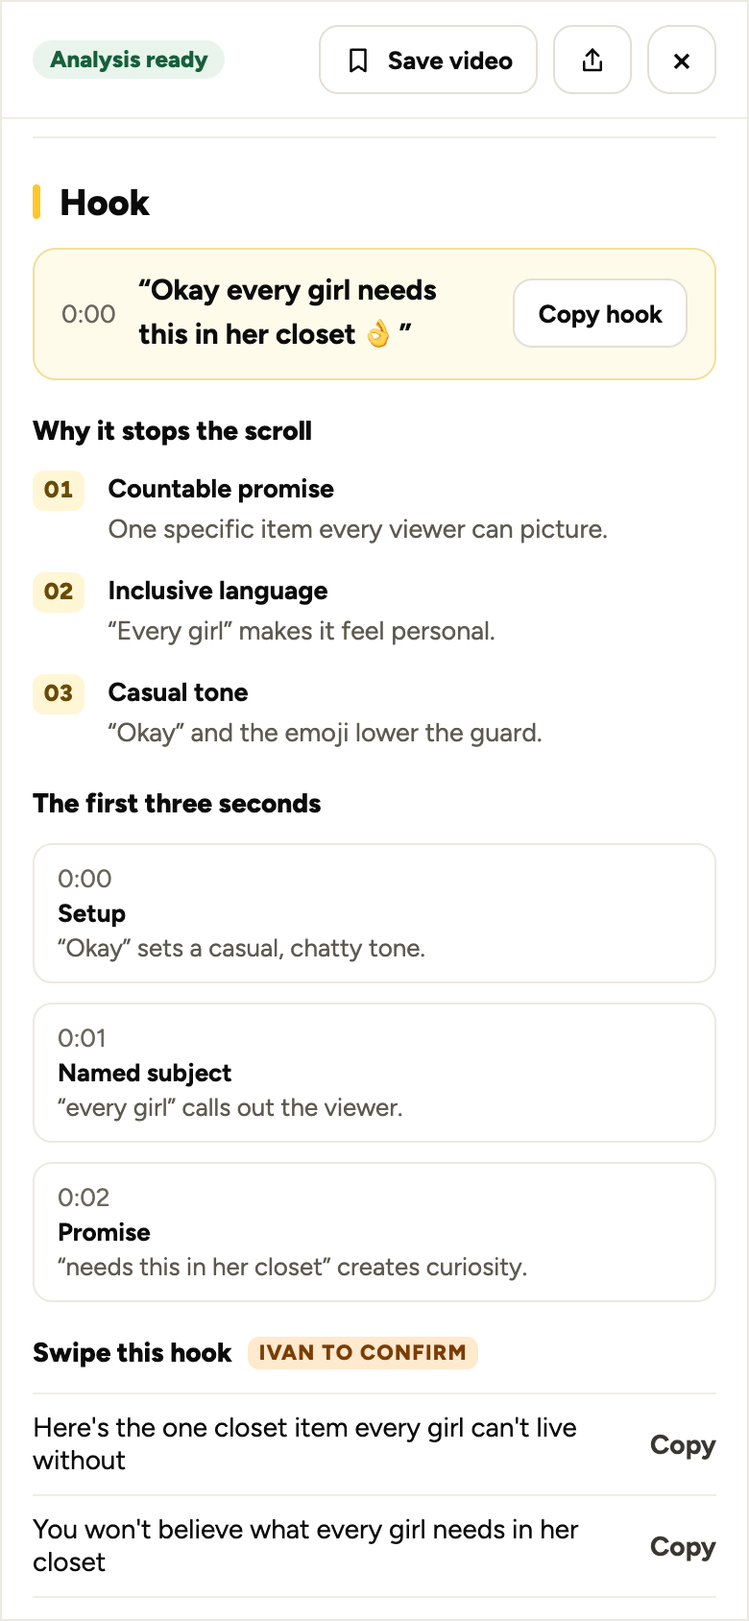
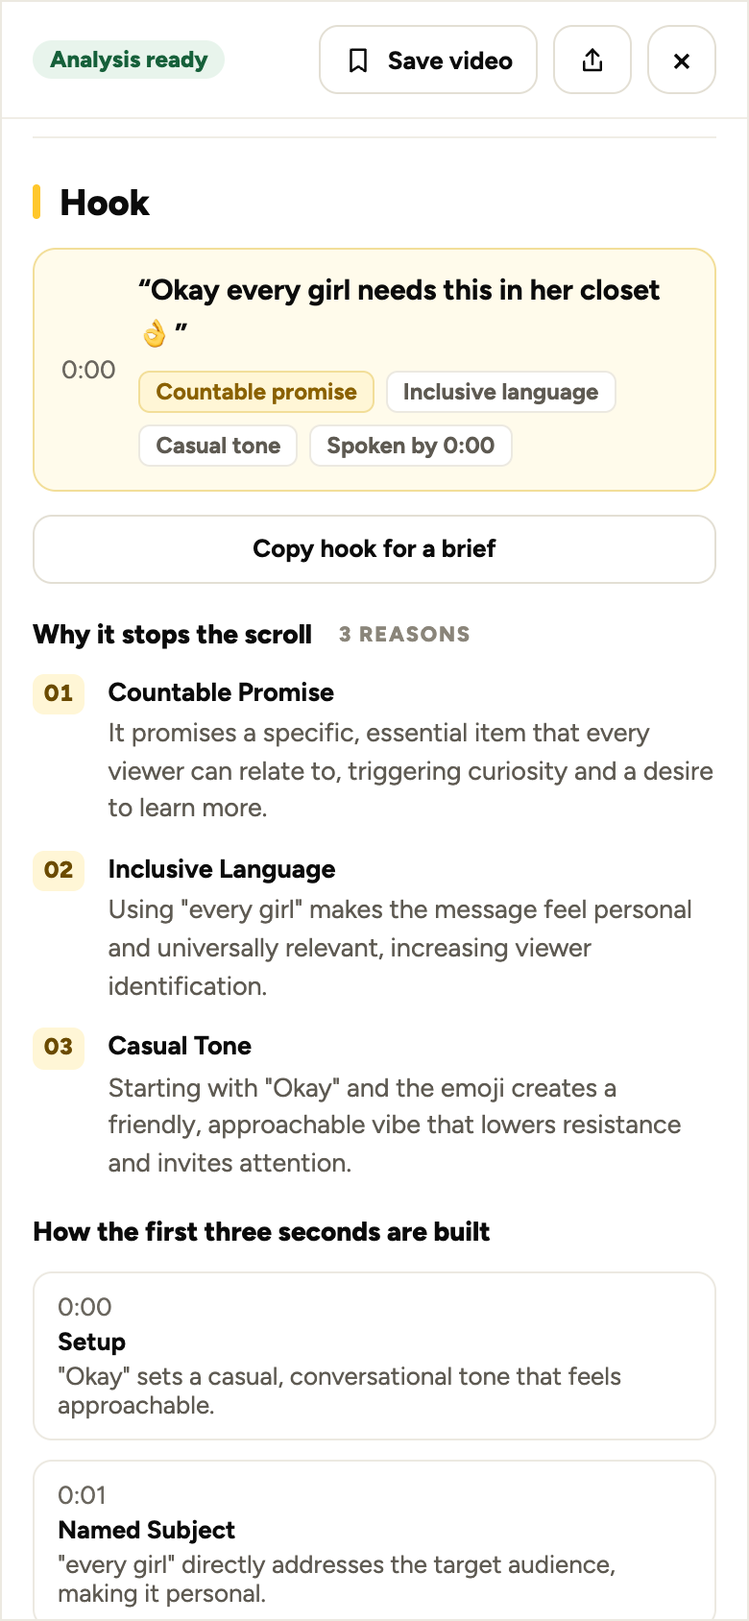
BB 3.0 handoff, item 26/28 accuracy pass: Hook word for word from the live Hook tab (tags, Copy hook for a brief, rewrite labels, footer), section counts back as on live, live straight quotes in next steps, real likes/comments/shares for cards 6-8 from the rhode skin data

Changed region(s): [[0.0308, 0.154, 0.9538, 1.0], [0.8615, 0.8626, 0.9538, 0.9242], [0.8615, 0.955, 0.9538, 0.9858]]

diff --git a/bb-3/oct21.html b/bb-3/oct21.html
@@ -377,6 +377,9 @@ a{color:inherit;text-decoration:none}i{font-style:normal}button{font-family:inhe
 .anl li>span:last-child{display:flex;flex-direction:column;gap:2px}.anl li>span:last-child>span{color:#5E5A52}
 .an-n{font-size:12px;font-weight:800;color:#6B4B00;background:#FFF6D6;border-radius:6px;padding:2px 6px;height:fit-content;font-variant-numeric:tabular-nums}
 .anl.sm li{font-size:13.5px}
+.ancnt{font-family:inherit;font-size:11px;font-weight:800;letter-spacing:.08em;text-transform:uppercase;color:#8A857A;margin-left:6px}
+.hookt{flex:1;display:flex;flex-direction:column;gap:8px}.hooktags{display:flex;flex-wrap:wrap;gap:6px}.hooktags span{font-size:12px;font-weight:700;color:#5E5A52;background:#fff;border:1px solid #ECE9E1;border-radius:6px;padding:3px 8px}.hooktags span:first-child{color:#8A6100;background:#FFF6D6;border-color:#F2DE99}
+.hookcopy{align-self:stretch;justify-content:center}.rwl{display:block;font-size:11px;font-weight:800;letter-spacing:.08em;text-transform:uppercase;color:#8A857A;margin-bottom:2px}
 .an-n.bad{color:#B42318;background:#FDECEA}.an-n.go{color:#0F7B4B;background:#E6F6EE}
 .ancream{background:#FFFBEB;border:1px solid #F2DE99;border-radius:12px;padding:16px}.ansec.ancream+.ansec,.ansec+.ansec.ancream{border-top:1px solid #F2DE99}.anfoot{font-style:italic;font-size:12.5px}
 .c2st{font-size:12px;gap:12px}
@@ -529,8 +532,8 @@ a{color:inherit;text-decoration:none}i{font-style:normal}button{font-family:inhe
  <div class="c2b">
   <div class="c2top"><span class="c2sc"><b>3.6K×</b><span class="c2sl">Breakout Score<button class="kinfo2" type="button" data-act="def" aria-label="What is a Breakout Score?">i</button></span></span></div>
   <div class="c2vf"><span><b>2.5M</b> views</span><span class="c2from">from</span><span><b>893</b> followers</span></div>
-  <div class="c2e"><b>12.4%</b> engagement <span class="sample c2smp" title="SAMPLE: engagement, likes, comments, shares, date and caption">SAMPLE</span></div>
-  <div class="anst c2st"><span><svg width="14" height="14" viewBox="0 0 24 24" fill="none" stroke="currentColor" stroke-width="2" stroke-linecap="round" stroke-linejoin="round" aria-hidden="true"><path d="M12 20s-7-4.4-7-10a4 4 0 0 1 7-2.6A4 4 0 0 1 19 10c0 5.6-7 10-7 10z"/></svg> 279K</span><span><svg width="14" height="14" viewBox="0 0 24 24" fill="none" stroke="currentColor" stroke-width="2" stroke-linecap="round" stroke-linejoin="round" aria-hidden="true"><path d="M4 5h16v11H8l-4 4z"/></svg> 3.1K</span><span><svg width="14" height="14" viewBox="0 0 24 24" fill="none" stroke="currentColor" stroke-width="2" stroke-linecap="round" stroke-linejoin="round" aria-hidden="true"><path d="M22 2L11 13"/><path d="M22 2l-7 20-4-9-9-4z"/></svg> 27.9K</span></div>
+  <div class="c2e"><b>16.6%</b> engagement <span class="sample c2smp" title="SAMPLE: date and caption">SAMPLE</span></div>
+  <div class="anst c2st"><span><svg width="14" height="14" viewBox="0 0 24 24" fill="none" stroke="currentColor" stroke-width="2" stroke-linecap="round" stroke-linejoin="round" aria-hidden="true"><path d="M12 20s-7-4.4-7-10a4 4 0 0 1 7-2.6A4 4 0 0 1 19 10c0 5.6-7 10-7 10z"/></svg> 374K</span><span><svg width="14" height="14" viewBox="0 0 24 24" fill="none" stroke="currentColor" stroke-width="2" stroke-linecap="round" stroke-linejoin="round" aria-hidden="true"><path d="M4 5h16v11H8l-4 4z"/></svg> 2.2K</span><span><svg width="14" height="14" viewBox="0 0 24 24" fill="none" stroke="currentColor" stroke-width="2" stroke-linecap="round" stroke-linejoin="round" aria-hidden="true"><path d="M22 2L11 13"/><path d="M22 2l-7 20-4-9-9-4z"/></svg> 39K</span></div>
   <div class="c2who"><span class="av sm2">L</span><b>@laurenestephanny_</b><span class="c2d">May 2</span></div>
   <p class="capt clamp">ok rhode actually did it this time #rhode #lipcombo</p>
   <div class="acts"><button class="btn y grow sm" data-act="analyze"><svg width="15" height="15" viewBox="0 0 24 24" fill="none" stroke="currentColor" stroke-width="2" stroke-linecap="round" stroke-linejoin="round" aria-hidden="true"><path d="M12 3l1.8 5.2L19 10l-5.2 1.8L12 17l-1.8-5.2L5 10l5.2-1.8z"/></svg> Analyze video</button><button class="ib round sm" data-act="save" aria-label="Save video"><svg width="15" height="15" viewBox="0 0 24 24" fill="none" stroke="currentColor" stroke-width="2" stroke-linecap="round" stroke-linejoin="round" aria-hidden="true"><path d="M6 3h12v18l-6-4-6 4z"/></svg></button></div>
@@ -539,8 +542,8 @@ a{color:inherit;text-decoration:none}i{font-style:normal}button{font-family:inhe
  <div class="c2b">
   <div class="c2top"><span class="c2sc"><b>1.9K×</b><span class="c2sl">Breakout Score<button class="kinfo2" type="button" data-act="def" aria-label="What is a Breakout Score?">i</button></span></span></div>
   <div class="c2vf"><span><b>1.7M</b> views</span><span class="c2from">from</span><span><b>1.2K</b> followers</span></div>
-  <div class="c2e"><b>10.9%</b> engagement <span class="sample c2smp" title="SAMPLE: engagement, likes, comments, shares, date and caption">SAMPLE</span></div>
-  <div class="anst c2st"><span><svg width="14" height="14" viewBox="0 0 24 24" fill="none" stroke="currentColor" stroke-width="2" stroke-linecap="round" stroke-linejoin="round" aria-hidden="true"><path d="M12 20s-7-4.4-7-10a4 4 0 0 1 7-2.6A4 4 0 0 1 19 10c0 5.6-7 10-7 10z"/></svg> 166.8K</span><span><svg width="14" height="14" viewBox="0 0 24 24" fill="none" stroke="currentColor" stroke-width="2" stroke-linecap="round" stroke-linejoin="round" aria-hidden="true"><path d="M4 5h16v11H8l-4 4z"/></svg> 1.9K</span><span><svg width="14" height="14" viewBox="0 0 24 24" fill="none" stroke="currentColor" stroke-width="2" stroke-linecap="round" stroke-linejoin="round" aria-hidden="true"><path d="M22 2L11 13"/><path d="M22 2l-7 20-4-9-9-4z"/></svg> 16.7K</span></div>
+  <div class="c2e"><b>12.3%</b> engagement <span class="sample c2smp" title="SAMPLE: date and caption">SAMPLE</span></div>
+  <div class="anst c2st"><span><svg width="14" height="14" viewBox="0 0 24 24" fill="none" stroke="currentColor" stroke-width="2" stroke-linecap="round" stroke-linejoin="round" aria-hidden="true"><path d="M12 20s-7-4.4-7-10a4 4 0 0 1 7-2.6A4 4 0 0 1 19 10c0 5.6-7 10-7 10z"/></svg> 206K</span><span><svg width="14" height="14" viewBox="0 0 24 24" fill="none" stroke="currentColor" stroke-width="2" stroke-linecap="round" stroke-linejoin="round" aria-hidden="true"><path d="M4 5h16v11H8l-4 4z"/></svg> 676</span><span><svg width="14" height="14" viewBox="0 0 24 24" fill="none" stroke="currentColor" stroke-width="2" stroke-linecap="round" stroke-linejoin="round" aria-hidden="true"><path d="M22 2L11 13"/><path d="M22 2l-7 20-4-9-9-4z"/></svg> 2.4K</span></div>
   <div class="c2who"><span class="av sm2">B</span><b>@bricourtneyy</b><span class="c2d">Mar 18</span></div>
   <p class="capt clamp">peptide lip tint in every shade, which one is yours #rhode</p>
   <div class="acts"><button class="btn y grow sm" data-act="analyze"><svg width="15" height="15" viewBox="0 0 24 24" fill="none" stroke="currentColor" stroke-width="2" stroke-linecap="round" stroke-linejoin="round" aria-hidden="true"><path d="M12 3l1.8 5.2L19 10l-5.2 1.8L12 17l-1.8-5.2L5 10l5.2-1.8z"/></svg> Analyze video</button><button class="ib round sm" data-act="save" aria-label="Save video"><svg width="15" height="15" viewBox="0 0 24 24" fill="none" stroke="currentColor" stroke-width="2" stroke-linecap="round" stroke-linejoin="round" aria-hidden="true"><path d="M6 3h12v18l-6-4-6 4z"/></svg></button></div>
@@ -549,8 +552,8 @@ a{color:inherit;text-decoration:none}i{font-style:normal}button{font-family:inhe
  <div class="c2b">
   <div class="c2top"><span class="c2sc"><b>1.8K×</b><span class="c2sl">Breakout Score<button class="kinfo2" type="button" data-act="def" aria-label="What is a Breakout Score?">i</button></span></span></div>
   <div class="c2vf"><span><b>3.5M</b> views</span><span class="c2from">from</span><span><b>3.1K</b> followers</span></div>
-  <div class="c2e"><b>9.2%</b> engagement <span class="sample c2smp" title="SAMPLE: engagement, likes, comments, shares, date and caption">SAMPLE</span></div>
-  <div class="anst c2st"><span><svg width="14" height="14" viewBox="0 0 24 24" fill="none" stroke="currentColor" stroke-width="2" stroke-linecap="round" stroke-linejoin="round" aria-hidden="true"><path d="M12 20s-7-4.4-7-10a4 4 0 0 1 7-2.6A4 4 0 0 1 19 10c0 5.6-7 10-7 10z"/></svg> 289.8K</span><span><svg width="14" height="14" viewBox="0 0 24 24" fill="none" stroke="currentColor" stroke-width="2" stroke-linecap="round" stroke-linejoin="round" aria-hidden="true"><path d="M4 5h16v11H8l-4 4z"/></svg> 3.2K</span><span><svg width="14" height="14" viewBox="0 0 24 24" fill="none" stroke="currentColor" stroke-width="2" stroke-linecap="round" stroke-linejoin="round" aria-hidden="true"><path d="M22 2L11 13"/><path d="M22 2l-7 20-4-9-9-4z"/></svg> 29K</span></div>
+  <div class="c2e"><b>21.1%</b> engagement <span class="sample c2smp" title="SAMPLE: date and caption">SAMPLE</span></div>
+  <div class="anst c2st"><span><svg width="14" height="14" viewBox="0 0 24 24" fill="none" stroke="currentColor" stroke-width="2" stroke-linecap="round" stroke-linejoin="round" aria-hidden="true"><path d="M12 20s-7-4.4-7-10a4 4 0 0 1 7-2.6A4 4 0 0 1 19 10c0 5.6-7 10-7 10z"/></svg> 672K</span><span><svg width="14" height="14" viewBox="0 0 24 24" fill="none" stroke="currentColor" stroke-width="2" stroke-linecap="round" stroke-linejoin="round" aria-hidden="true"><path d="M4 5h16v11H8l-4 4z"/></svg> 557</span><span><svg width="14" height="14" viewBox="0 0 24 24" fill="none" stroke="currentColor" stroke-width="2" stroke-linecap="round" stroke-linejoin="round" aria-hidden="true"><path d="M22 2L11 13"/><path d="M22 2l-7 20-4-9-9-4z"/></svg> 107K</span></div>
   <div class="c2who"><span class="av sm2">E</span><b>@elizaveta_beauty_</b><span class="c2d">Aug 27</span></div>
   <p class="capt clamp">glazed skin in 3 steps #rhodeskin #glazeddonutskin</p>
   <div class="acts"><button class="btn y grow sm" data-act="analyze"><svg width="15" height="15" viewBox="0 0 24 24" fill="none" stroke="currentColor" stroke-width="2" stroke-linecap="round" stroke-linejoin="round" aria-hidden="true"><path d="M12 3l1.8 5.2L19 10l-5.2 1.8L12 17l-1.8-5.2L5 10l5.2-1.8z"/></svg> Analyze video</button><button class="ib round sm" data-act="save" aria-label="Save video"><svg width="15" height="15" viewBox="0 0 24 24" fill="none" stroke="currentColor" stroke-width="2" stroke-linecap="round" stroke-linejoin="round" aria-hidden="true"><path d="M6 3h12v18l-6-4-6 4z"/></svg></button></div>
@@ -656,15 +659,16 @@ a{color:inherit;text-decoration:none}i{font-style:normal}button{font-family:inhe
   </aside>
   <div class="anbody">
    <h2 class="anq">“Okay every girl needs this in her closet 👌” <span class="tagc">#shapewear #skims</span></h2>
-   <section class="ansec"><h3 class="h2">Why it worked</h3><ol class="anl"><li><span class="an-n">01</span><span><b>Clear Essential Item Promise</b><span>The video opens with a direct statement that sets a clear expectation about the product’s importance, hooking viewers immediately.</span></span></li><li><span class="an-n">02</span><span><b>Trend-Relevant Hashtags</b><span>Using #shapewear and #skims connects the content to trending topics and communities, increasing discoverability and shareability.</span></span></li><li><span class="an-n">03</span><span><b>Creator Authenticity</b><span>The creator’s confident and relatable delivery builds trust, encouraging viewers to watch fully and engage with the content.</span></span></li></ol></section>
+   <section class="ansec"><h3 class="h2">Why it worked <span class="ancnt">3 drivers</span></h3><ol class="anl"><li><span class="an-n">01</span><span><b>Clear Essential Item Promise</b><span>The video opens with a direct statement that sets a clear expectation about the product’s importance, hooking viewers immediately.</span></span></li><li><span class="an-n">02</span><span><b>Trend-Relevant Hashtags</b><span>Using #shapewear and #skims connects the content to trending topics and communities, increasing discoverability and shareability.</span></span></li><li><span class="an-n">03</span><span><b>Creator Authenticity</b><span>The creator’s confident and relatable delivery builds trust, encouraging viewers to watch fully and engage with the content.</span></span></li></ol></section>
    <section class="ansec"><h3 class="h2">Hook</h3>
-    <div class="hookq"><span class="quiet">0:00</span><b>“Okay every girl needs this in her closet 👌”</b><button class="btn sm" type="button" data-act="toast" data-msg="Hook copied for a brief.">Copy hook</button></div>
-    <h4 class="h4">Why it stops the scroll</h4><ol class="anl sm"><li><span class="an-n">01</span><span><b>Countable promise</b><span>One specific item every viewer can picture.</span></span></li><li><span class="an-n">02</span><span><b>Inclusive language</b><span>“Every girl” makes it feel personal.</span></span></li><li><span class="an-n">03</span><span><b>Casual tone</b><span>“Okay” and the emoji lower the guard.</span></span></li></ol>
-    <h4 class="h4">The first three seconds</h4><div class="beats"><div><span class="quiet">0:00</span><b>Setup</b><span>“Okay” sets a casual, chatty tone.</span></div><div><span class="quiet">0:01</span><b>Named subject</b><span>“every girl” calls out the viewer.</span></div><div><span class="quiet">0:02</span><b>Promise</b><span>“needs this in her closet” creates curiosity.</span></div></div>
-    <h4 class="h4">Swipe this hook <span class="sample ivan">IVAN TO CONFIRM</span></h4><div class="rewr"><div><span>Here&#x27;s the one closet item every girl can&#x27;t live without</span><button class="lnk sm" type="button" data-act="toast" data-msg="Copied.">Copy</button></div><div><span>You won&#x27;t believe what every girl needs in her closet</span><button class="lnk sm" type="button" data-act="toast" data-msg="Copied.">Copy</button></div><div><span>This is the must have piece every girl&#x27;s talking about</span><button class="lnk sm" type="button" data-act="toast" data-msg="Copied.">Copy</button></div></div>
+    <div class="hookq"><span class="quiet">0:00</span><span class="hookt"><b>“Okay every girl needs this in her closet 👌”</b><span class="hooktags"><span>Countable promise</span><span>Inclusive language</span><span>Casual tone</span><span>Spoken by 0:00</span></span></span></div>
+    <button class="btn sm hookcopy" type="button" data-act="toast" data-msg="Hook copied for a brief.">Copy hook for a brief</button>
+    <h4 class="h4">Why it stops the scroll <span class="ancnt">3 reasons</span></h4><ol class="anl sm"><li><span class="an-n">01</span><span><b>Countable Promise</b><span>It promises a specific, essential item that every viewer can relate to, triggering curiosity and a desire to learn more.</span></span></li><li><span class="an-n">02</span><span><b>Inclusive Language</b><span>Using &quot;every girl&quot; makes the message feel personal and universally relevant, increasing viewer identification.</span></span></li><li><span class="an-n">03</span><span><b>Casual Tone</b><span>Starting with &quot;Okay&quot; and the emoji creates a friendly, approachable vibe that lowers resistance and invites attention.</span></span></li></ol>
+    <h4 class="h4">How the first three seconds are built</h4><div class="beats"><div><span class="quiet">0:00</span><b>Setup</b><span>&quot;Okay&quot; sets a casual, conversational tone that feels approachable.</span></div><div><span class="quiet">0:01</span><b>Named Subject</b><span>&quot;every girl&quot; directly addresses the target audience, making it personal.</span></div><div><span class="quiet">0:02</span><b>Countable Promise</b><span>&quot;needs this in her closet&quot; promises a specific essential item, creating curiosity.</span></div></div>
+    <h4 class="h4">Swipe this hook <span class="ancnt">3 rewrites</span></h4><div class="rewr"><div><span><small class="rwl">Too generic</small>Here’s the one closet item every girl can’t live without</span><button class="lnk sm" type="button" data-act="toast" data-msg="Copied.">Copy</button></div><div><span><small class="rwl">Skepticism</small>You won’t believe what every girl needs in her closet</span><button class="lnk sm" type="button" data-act="toast" data-msg="Copied.">Copy</button></div><div><span><small class="rwl">Overused phrase</small>This is the must-have piece every girl’s talking about</span><button class="lnk sm" type="button" data-act="toast" data-msg="Copied.">Copy</button></div></div><p class="quiet anfoot">Structure lifted from this video’s opening.</p>
    </section>
-   <section class="ansec"><h3 class="h2">What could be improved</h3><ol class="anl"><li><span class="an-n bad">01</span><span><b>Potential Payoff Delay</b><span>If the video delays revealing the product or its benefits too long, some viewers might drop off before the payoff.</span></span></li><li><span class="an-n bad">02</span><span><b>Niche Appeal</b><span>The focus on shapewear and a specific brand might limit appeal to viewers outside the target demographic, reducing repeat virality.</span></span></li></ol></section>
-   <section class="ansec ancream"><h3 class="h2">What you should do next</h3><ol class="anl"><li><span class="an-n go">01</span><span><b>Make a Clear Essential Promise</b><span>Start your video by stating a specific, relatable item or benefit that your target audience ‘needs’ or ‘can’t live without,’ to instantly hook viewers with a compelling reason to watch.</span></span></li><li><span class="an-n go">02</span><span><b>Use Inclusive and Casual Language</b><span>Address your audience directly with inclusive terms like ‘everyone,’ ‘every girl,’ or ‘every guy’ and keep the tone conversational and friendly to lower resistance and increase relatability.</span></span></li><li><span class="an-n go">03</span><span><b>Leverage Trend-Relevant Hashtags</b><span>Incorporate popular and relevant hashtags related to your product category or community to boost discoverability and tap into existing trends.</span></span></li></ol><p class="quiet anfoot">From this video’s transcript and metrics.</p></section>
+   <section class="ansec"><h3 class="h2">What could be improved <span class="ancnt">2 drags</span></h3><ol class="anl"><li><span class="an-n bad">01</span><span><b>Potential Payoff Delay</b><span>If the video delays revealing the product or its benefits too long, some viewers might drop off before the payoff.</span></span></li><li><span class="an-n bad">02</span><span><b>Niche Appeal</b><span>The focus on shapewear and a specific brand might limit appeal to viewers outside the target demographic, reducing repeat virality.</span></span></li></ol></section>
+   <section class="ansec ancream"><h3 class="h2">What you should do next <span class="ancnt">3 actions</span></h3><ol class="anl"><li><span class="an-n go">01</span><span><b>Make a Clear Essential Promise</b><span>Start your video by stating a specific, relatable item or benefit that your target audience &#x27;needs&#x27; or &#x27;can’t live without,&#x27; to instantly hook viewers with a compelling reason to watch.</span></span></li><li><span class="an-n go">02</span><span><b>Use Inclusive and Casual Language</b><span>Address your audience directly with inclusive terms like &#x27;everyone,&#x27; &#x27;every girl,&#x27; or &#x27;every guy&#x27; and keep the tone conversational and friendly to lower resistance and increase relatability.</span></span></li><li><span class="an-n go">03</span><span><b>Leverage Trend-Relevant Hashtags</b><span>Incorporate popular and relevant hashtags related to your product category or community to boost discoverability and tap into existing trends.</span></span></li></ol><p class="quiet anfoot">From this video’s transcript and metrics.</p></section>
    <section class="ansec"><h3 class="h2">Transcript <span class="quiet">0:56</span></h3><p class="quiet">No transcript was captured for this video.</p></section>
    <div class="ancta"><b>Share with your team and creators</b><span class="quiet">Does not use any of your credits.</span><button class="btn y sm" type="button" data-act="toast" data-msg="Opens the share view in this panel (live flow, unchanged)."><svg width="15" height="15" viewBox="0 0 24 24" fill="none" stroke="currentColor" stroke-width="2" stroke-linecap="round" stroke-linejoin="round" aria-hidden="true"><path d="M12 3v12"/><path d="M7 8l5-5 5 5"/><path d="M5 13v7h14v-7"/></svg> Share</button></div>
   </div>

diff --git a/bb-3/handoff-oct21.html b/bb-3/handoff-oct21.html
@@ -58,13 +58,13 @@ figcaption{font-size:12.5px;color:var(--q);margin-top:5px}
  <div class="ih"><span class="no">26</span><div><span class="area">Video card</span><h2>Breakout Score first, then views and followers, then engagement with likes, comments and shares</h2></div><a class="open" href="oct21.html#card-v2" target="_blank">Open in prototype</a></div>
  <p class="ask"><b>Tracker:</b> More focus on the views: Breakout Score first, then the relationship between views and followers. Add an engagement % (UGCB has this).</p>
  <div class="ba"><div class="col"><h3>Before</h3><figure class="dk"><a href="shots/oct21/live-oct11-card-crop.png" target="_blank"><img src="shots/oct21/live-oct11-card-crop.png" alt="Live, 11 Oct: score on the thumbnail, followers under the handle, 4 stat icons" loading="lazy"></a><figcaption>Live, 11 Oct: score on the thumbnail, followers under the handle, 4 stat icons</figcaption></figure></div><div class="col"><h3>After</h3><figure class="dk"><a href="shots/oct21/card-v2-1440.png" target="_blank"><img src="shots/oct21/card-v2-1440.png" alt="Now vs new" loading="lazy"></a><figcaption>Now vs new</figcaption></figure><div class="phones"><figure class="ph"><a href="shots/oct21/card-v2-390.png" target="_blank"><img src="shots/oct21/card-v2-390.png" alt="Phone: card goes horizontal" loading="lazy"></a><figcaption>Phone: card goes horizontal</figcaption></figure><figure class="ph"><a href="shots/oct21/results-v2-390.png" target="_blank"><img src="shots/oct21/results-v2-390.png" alt="Phone, in the results grid" loading="lazy"></a><figcaption>Phone, in the results grid</figcaption></figure></div></div></div>
- <div class="notes"><div><h3>Build notes</h3><ul><li>Ivan, Slack 21 Oct: keep likes, comments and shares on the card, next to the new engagement %.</li><li>Order inside the card: <b>Breakout Score</b> (big, gold, info icon) &gt; <b>8.9M views from 1.6K followers</b> &gt; <b>19.7% engagement</b> &gt; <b>likes · comments · shares</b> (icons, one row) &gt; handle and date &gt; caption (2 lines) &gt; Analyze video + Save.</li><li>The score moves off the thumbnail into the card body. Thumbnail keeps rank and duration only.</li><li>Engagement % = (likes + comments + shares) / views, one decimal. Use the same formula My Feed already shows (19.68% for @cyr1n32 becomes 19.7%).</li><li>Likes, comments and shares stay on the card, in one row under engagement, same icons as today. Views already sit in the views from followers line, so the eye icon goes.</li><li>No Share button on the card (item 25).</li><li>Grid: 4 across on desktop. 12 = 3 rows; More adds one row of 4 (item 20).</li><li>Phone: horizontal card, 112px thumbnail on the left, caption hidden, buttons under the numbers.</li><li>Use this card on results and Saved videos. My Feed keeps its own wide card for now (open question).</li><li>Cards 1 to 8 are the real rhode skin run. Cards 9 to 12, and the engagement, likes, comments and shares on cards 6 to 8, are SAMPLE.</li></ul></div>
+ <div class="notes"><div><h3>Build notes</h3><ul><li>Ivan, Slack 21 Oct: keep likes, comments and shares on the card, next to the new engagement %.</li><li>Order inside the card: <b>Breakout Score</b> (big, gold, info icon) &gt; <b>8.9M views from 1.6K followers</b> &gt; <b>19.7% engagement</b> &gt; <b>likes · comments · shares</b> (icons, one row) &gt; handle and date &gt; caption (2 lines) &gt; Analyze video + Save.</li><li>The score moves off the thumbnail into the card body. Thumbnail keeps rank and duration only.</li><li>Engagement % = (likes + comments + shares) / views, one decimal. Use the same formula My Feed already shows (19.68% for @cyr1n32 becomes 19.7%).</li><li>Likes, comments and shares stay on the card, in one row under engagement, same icons as today. Views already sit in the views from followers line, so the eye icon goes.</li><li>No Share button on the card (item 25).</li><li>Grid: 4 across on desktop. 12 = 3 rows; More adds one row of 4 (item 20).</li><li>Phone: horizontal card, 112px thumbnail on the left, caption hidden, buttons under the numbers.</li><li>Use this card on results and Saved videos. My Feed keeps its own wide card for now (open question).</li><li>Cards 1 to 8 are the real rhode skin run, with real likes, comments and shares. Cards 6 to 8: date and caption are SAMPLE. Cards 9 to 12 are SAMPLE cards.</li></ul></div>
  <div><h3>Edge cases</h3><ul><li>Followers missing or 0: show only 8.9M views.</li><li>A count missing: hide that one icon, keep the others.</li><li>Views 0 or missing: hide the engagement line.</li><li>Long handles: truncate with an ellipsis, the date never wraps.</li></ul></div></div>
 </section><section class="item" id="i28">
  <div class="ih"><span class="no">28</span><div><span class="area">Video analysis page</span><h2>One page: the analysis as it is today, with Hook added, 3 points max</h2></div><a class="open" href="oct21.html#analysis-v2" target="_blank">Open in prototype</a></div>
  <p class="ask"><b>Tracker:</b> Make it all 1 page: Why it went viral and Hook. Remove the rest? Ivan, Slack 21 Oct: keep it like the before, but add Hook to that longer list of things. Consider shortening it to 3 things max on the before.</p>
  <div class="ba"><div class="col"><h3>Before</h3><figure class="dk"><a href="shots/oct21/live-analysis-share-1440.jpg" target="_blank"><img src="shots/oct21/live-analysis-share-1440.jpg" alt="Live share page of the same panel (brandbeacon.io/b/getrealwithalix/7jy3aokrb5), 21 Oct: tabs plus improved, next and transcript" loading="lazy"></a><figcaption>Live share page of the same panel (brandbeacon.io/b/getrealwithalix/7jy3aokrb5), 21 Oct: tabs plus improved, next and transcript</figcaption></figure><figure class="ph"><a href="shots/oct21/live-analysis-share-390.jpg" target="_blank"><img src="shots/oct21/live-analysis-share-390.jpg" alt="Live, phone" loading="lazy"></a><figcaption>Live, phone</figcaption></figure></div><div class="col"><h3>After</h3><figure class="dk"><a href="shots/oct21/analysis-v2-1440.png" target="_blank"><img src="shots/oct21/analysis-v2-1440.png" alt="One page, top: Why it worked, then Hook" loading="lazy"></a><figcaption>One page, top: Why it worked, then Hook</figcaption></figure><figure class="dk"><a href="shots/oct21/analysis-v2-hook-1440.png" target="_blank"><img src="shots/oct21/analysis-v2-hook-1440.png" alt="Hook part" loading="lazy"></a><figcaption>Hook part</figcaption></figure><figure class="dk"><a href="shots/oct21/analysis-v2-more-1440.png" target="_blank"><img src="shots/oct21/analysis-v2-more-1440.png" alt="What could be improved, What you should do next, Transcript" loading="lazy"></a><figcaption>What could be improved, What you should do next, Transcript</figcaption></figure><div class="phones"><figure class="ph"><a href="shots/oct21/analysis-v2-390.png" target="_blank"><img src="shots/oct21/analysis-v2-390.png" alt="Phone: full screen" loading="lazy"></a><figcaption>Phone: full screen</figcaption></figure><figure class="ph"><a href="shots/oct21/analysis-v2-more-390.png" target="_blank"><img src="shots/oct21/analysis-v2-more-390.png" alt="Phone, lower part" loading="lazy"></a><figcaption>Phone, lower part</figcaption></figure></div></div></div>
- <div class="notes"><div><h3>Build notes</h3><ul><li>Ivan, Slack 21 Oct: keep the analysis as it is today, add Hook into the same list, max 3 points per list.</li><li>One scroll in the existing analysis panel, no tabs. Video column on the left (sticky on desktop). Order: hook line, <b>Why it worked</b>, <b>Hook</b> (hook line + Copy hook, Why it stops the scroll, The first three seconds, Swipe this hook), <b>What could be improved</b>, <b>What you should do next</b> (cream box, with the From this video's transcript and metrics line), <b>Transcript</b>, then the share CTA.</li><li>3 points max in every list: show the first 3 the analysis returns (it already ranks them). The rest are not shown. Lists with fewer show what exists.</li><li>Labels stay as today: Why it worked, What could be improved, What you should do next, Transcript. The driver/drag/action counts next to the headings go (they would always say 3).</li><li>Removed vs today: the Why it worked / Hook tabs (Hook now sits in the list), the Breakout Score banner (now the info icon, item 16), the TikTok link (item 30, done).</li><li>Header: Analysis ready, Save video (item 31), Share, Close.</li><li>Video column uses the new card order (item 26): score, views from followers, engagement, handle, then likes / comments / shares.</li><li>The shared page (/b/...) shows the same one-page content.</li><li>Phone: panel goes full screen, video 240px tall, the text runs under it.</li><li>Data: Ivan's shared @getrealwithalix analysis (real), word for word from the live page, first 3 of each list.</li></ul></div>
+ <div class="notes"><div><h3>Build notes</h3><ul><li>Ivan, Slack 21 Oct: keep the analysis as it is today, add Hook into the same list, max 3 points per list.</li><li>One scroll in the existing analysis panel, no tabs. Video column on the left (sticky on desktop). Order: hook line, <b>Why it worked</b>, <b>Hook</b> (hook line + Copy hook, Why it stops the scroll, The first three seconds, Swipe this hook), <b>What could be improved</b>, <b>What you should do next</b> (cream box, with the From this video's transcript and metrics line), <b>Transcript</b>, then the share CTA.</li><li>3 points max in every list: show the first 3 the analysis returns (it already ranks them). The rest are not shown. Lists with fewer show what exists.</li><li>Labels and counts stay as today: Why it worked (n drivers), What could be improved (n drags), What you should do next (n actions), Transcript, and in Hook: Why it stops the scroll (n reasons), How the first three seconds are built, Swipe this hook (n rewrites). n = points shown, so 3 at most.</li><li>Removed vs today: the Why it worked / Hook tabs (Hook now sits in the list), the Breakout Score banner (now the info icon, item 16), the TikTok link (item 30, done).</li><li>Header: Analysis ready, Save video (item 31), Share, Close.</li><li>Video column uses the new card order (item 26): score, views from followers, engagement, handle, then likes / comments / shares.</li><li>The shared page (/b/...) shows the same one-page content.</li><li>Phone: panel goes full screen, video 240px tall, the text runs under it.</li><li>Data: Ivan's shared @getrealwithalix analysis (real), word for word from the live page (both tabs), first 3 of each list. Hook keeps the live pattern tags, Copy hook for a brief, the rewrite labels and the Structure lifted from this video's opening line.</li></ul></div>
  <div><h3>Edge cases</h3><ul><li>Hook with no spoken line (music only): show the on-screen text as the hook; if none, hide Copy hook.</li><li>No transcript: show No transcript was captured for this video (as live).</li><li>Fewer than 3 points in a list: show what exists, no empty rows. A list with none: hide that section.</li><li>Analysis still running: the panel keeps today's Analyzing state.</li></ul></div></div>
 </section><section class="item" id="i31">
  <div class="ih"><span class="no">31</span><div><span class="area">Video analyses list</span><h2>Bookmark from the list and from an open analysis</h2></div><a class="open" href="oct21.html#analyses-list" target="_blank">Open in prototype</a></div>

diff --git a/bb-3/src/build-oct21.py b/bb-3/src/build-oct21.py
@@ -29,18 +29,20 @@ def side(active, sid):
 # Cards 1 to 8: the real rhode skin run (Sep 18). 1 to 5 from the live cards, 6 to 8 from the breakout creators list
 # (followers, score, views). Cards 9 to 12 reuse images and are SAMPLE, only there to show 12 then More adds 4.
 CARDS = [dict(v, sample=False) for v in V] + [
-    dict(img="../img/v6.jpg", h="laurenestephanny_", f="893", d="May 2", dur="0:12", s="3.6K", v="2.5M", e="12.4%",
+    dict(img="../img/v6.jpg", h="laurenestephanny_", f="893", d="May 2", dur="0:12", s="3.6K", v="2.5M", e="16.6%", l="374K", c="2.2K", sh="39K",
          cap="ok rhode actually did it this time #rhode #lipcombo", sample=True),
-    dict(img="../img/v7.jpg", h="bricourtneyy", f="1.2K", d="Mar 18", dur="0:15", s="1.9K", v="1.7M", e="10.9%",
+    dict(img="../img/v7.jpg", h="bricourtneyy", f="1.2K", d="Mar 18", dur="0:15", s="1.9K", v="1.7M", e="12.3%", l="206K", c="676", sh="2.4K",
          cap="peptide lip tint in every shade, which one is yours #rhode", sample=True),
-    dict(img="../img/v8.jpg", h="elizaveta_beauty_", f="3.1K", d="Aug 27", dur="0:18", s="1.8K", v="3.5M", e="9.2%",
+    dict(img="../img/v8.jpg", h="elizaveta_beauty_", f="3.1K", d="Aug 27", dur="0:18", s="1.8K", v="3.5M", e="21.1%", l="672K", c="557", sh="107K",
          cap="glazed skin in 3 steps #rhodeskin #glazeddonutskin", sample=True),
 ]
 for i, (img, h, f, d, s, v, e) in enumerate([
         ("v3", "glowwithnia", "2.4K", "Sep 2", "1.6K", "1.1M", "8.7%"), ("v5", "skinbymaddie", "1.9K", "Aug 14", "1.4K", "960K", "11.2%"),
         ("v1", "thegoldenhourgirl", "3.7K", "Jul 30", "1.2K", "1.3M", "7.9%"), ("v4", "rae.reviews", "2.2K", "Jun 21", "1.1K", "870K", "9.8%")]):
     CARDS.append(dict(img=f"../img/{img}.jpg", h=h, f=f, d=d, dur="0:1" + str(i + 2), s=s, v=v, e=e, cap="SAMPLE card to fill the first 12", sample=True))
-CARDS[6]["sample_note"] = CARDS[7]["sample_note"] = CARDS[5]["sample_note"] = "engagement, likes, comments, shares, date and caption"
+# Cards 6 to 8: likes, comments, shares are real (same creators in the sales page's rhode skin data, sales-page/index.html LIVE);
+# engagement = (likes + comments + shares) / views from that same data. Date and caption are still SAMPLE.
+CARDS[6]["sample_note"] = CARDS[7]["sample_note"] = CARDS[5]["sample_note"] = "date and caption"
 for c in CARDS[8:]:
     c["sample_note"] = "whole card"
 
@@ -64,7 +66,7 @@ FILT = {
 }
 
 def counts(c):
-    # Item 26 (Ivan, 21 Oct): likes, comments and shares stay on the card. Real for cards 1 to 5; SAMPLE split of the engagement for the rest.
+    # Item 26 (Ivan, 21 Oct): likes, comments and shares stay on the card. Real for cards 1 to 8; cards 9 to 12 are whole SAMPLE cards, so theirs are a SAMPLE split of their engagement.
     if "l" not in c:
         tot = num(c["v"]) * num(c["e"]) / 100
         c["l"], c["c"], c["sh"] = kfmt(tot * .9), kfmt(tot * .01), kfmt(tot * .09)
@@ -157,14 +159,19 @@ DRIVERS = [("Clear Essential Item Promise", "The video opens with a direct state
            ("Creator Authenticity", "The creator’s confident and relatable delivery builds trust, encouraging viewers to watch fully and engage with the content.")]
 DRAGS = [("Potential Payoff Delay", "If the video delays revealing the product or its benefits too long, some viewers might drop off before the payoff."),
          ("Niche Appeal", "The focus on shapewear and a specific brand might limit appeal to viewers outside the target demographic, reducing repeat virality.")]
-NEXT = [("Make a Clear Essential Promise", "Start your video by stating a specific, relatable item or benefit that your target audience ‘needs’ or ‘can’t live without,’ to instantly hook viewers with a compelling reason to watch."),
-        ("Use Inclusive and Casual Language", "Address your audience directly with inclusive terms like ‘everyone,’ ‘every girl,’ or ‘every guy’ and keep the tone conversational and friendly to lower resistance and increase relatability."),
+NEXT = [("Make a Clear Essential Promise", "Start your video by stating a specific, relatable item or benefit that your target audience 'needs' or 'can’t live without,' to instantly hook viewers with a compelling reason to watch."),
+        ("Use Inclusive and Casual Language", "Address your audience directly with inclusive terms like 'everyone,' 'every girl,' or 'every guy' and keep the tone conversational and friendly to lower resistance and increase relatability."),
         ("Leverage Trend-Relevant Hashtags", "Incorporate popular and relevant hashtags related to your product category or community to boost discoverability and tap into existing trends.")]
-WHY_HOOK = [("Countable promise", "One specific item every viewer can picture."), ("Inclusive language", "“Every girl” makes it feel personal."),
-            ("Casual tone", "“Okay” and the emoji lower the guard.")]
-BEATS = [("0:00", "Setup", "“Okay” sets a casual, chatty tone."), ("0:01", "Named subject", "“every girl” calls out the viewer."),
-         ("0:02", "Promise", "“needs this in her closet” creates curiosity.")]
-REWR = ["Here's the one closet item every girl can't live without", "You won't believe what every girl needs in her closet", "This is the must have piece every girl's talking about"]
+# Hook, word for word from the live Hook tab of the same share page (shots/oct21/live-analysis-share-hook-1440.jpg).
+HOOK_TAGS = ["Countable promise", "Inclusive language", "Casual tone", "Spoken by 0:00"]
+WHY_HOOK = [("Countable Promise", "It promises a specific, essential item that every viewer can relate to, triggering curiosity and a desire to learn more."),
+            ("Inclusive Language", 'Using "every girl" makes the message feel personal and universally relevant, increasing viewer identification.'),
+            ("Casual Tone", 'Starting with "Okay" and the emoji creates a friendly, approachable vibe that lowers resistance and invites attention.')]
+BEATS = [("0:00", "Setup", '"Okay" sets a casual, conversational tone that feels approachable.'),
+         ("0:01", "Named Subject", '"every girl" directly addresses the target audience, making it personal.'),
+         ("0:02", "Countable Promise", '"needs this in her closet" promises a specific essential item, creating curiosity.')]
+REWR = [("Too generic", "Here’s the one closet item every girl can’t live without"), ("Skepticism", "You won’t believe what every girl needs in her closet"),
+        ("Overused phrase", "This is the must-have piece every girl’s talking about")]
 def li(items, cls=""):
     return "".join(f'<li><span class="an-n{cls}">{i+1:02d}</span><span><b>{E(t)}</b><span>{E(d)}</span></span></li>' for i, (t, d) in enumerate(items))
 analysis = f"""<div class="modal" id="m-analysis" hidden><div class="mscrim" data-x></div>
@@ -183,15 +190,16 @@ analysis = f"""<div class="modal" id="m-analysis" hidden><div class="mscrim" dat
   </aside>
   <div class="anbody">
    <h2 class="anq">“{E(AX['q'])}” <span class="tagc">{AX['tags']}</span></h2>
-   <section class="ansec"><h3 class="h2">Why it worked</h3><ol class="anl">{li(DRIVERS)}</ol></section>
+   <section class="ansec"><h3 class="h2">Why it worked <span class="ancnt">{len(DRIVERS)} drivers</span></h3><ol class="anl">{li(DRIVERS)}</ol></section>
    <section class="ansec"><h3 class="h2">Hook</h3>
-    <div class="hookq"><span class="quiet">0:00</span><b>“{E(AX['q'])}”</b><button class="btn sm" type="button" data-act="toast" data-msg="Hook copied for a brief.">Copy hook</button></div>
-    <h4 class="h4">Why it stops the scroll</h4><ol class="anl sm">{li(WHY_HOOK)}</ol>
-    <h4 class="h4">The first three seconds</h4><div class="beats">{"".join(f'<div><span class="quiet">{t}</span><b>{E(a)}</b><span>{E(b)}</span></div>' for t,a,b in BEATS)}</div>
-    <h4 class="h4">Swipe this hook <span class="sample ivan">IVAN TO CONFIRM</span></h4><div class="rewr">{"".join(f'<div><span>{E(r)}</span><button class="lnk sm" type="button" data-act="toast" data-msg="Copied.">Copy</button></div>' for r in REWR)}</div>
+    <div class="hookq"><span class="quiet">0:00</span><span class="hookt"><b>“{E(AX['q'])}”</b><span class="hooktags">{"".join(f'<span>{E(t)}</span>' for t in HOOK_TAGS)}</span></span></div>
+    <button class="btn sm hookcopy" type="button" data-act="toast" data-msg="Hook copied for a brief.">Copy hook for a brief</button>
+    <h4 class="h4">Why it stops the scroll <span class="ancnt">{len(WHY_HOOK)} reasons</span></h4><ol class="anl sm">{li(WHY_HOOK)}</ol>
+    <h4 class="h4">How the first three seconds are built</h4><div class="beats">{"".join(f'<div><span class="quiet">{t}</span><b>{E(a)}</b><span>{E(b)}</span></div>' for t,a,b in BEATS)}</div>
+    <h4 class="h4">Swipe this hook <span class="ancnt">{len(REWR)} rewrites</span></h4><div class="rewr">{"".join(f'<div><span><small class="rwl">{E(l)}</small>{E(r)}</span><button class="lnk sm" type="button" data-act="toast" data-msg="Copied.">Copy</button></div>' for l, r in REWR)}</div><p class="quiet anfoot">Structure lifted from this video’s opening.</p>
    </section>
-   <section class="ansec"><h3 class="h2">What could be improved</h3><ol class="anl">{li(DRAGS, " bad")}</ol></section>
-   <section class="ansec ancream"><h3 class="h2">What you should do next</h3><ol class="anl">{li(NEXT, " go")}</ol><p class="quiet anfoot">From this video’s transcript and metrics.</p></section>
+   <section class="ansec"><h3 class="h2">What could be improved <span class="ancnt">{len(DRAGS)} drags</span></h3><ol class="anl">{li(DRAGS, " bad")}</ol></section>
+   <section class="ansec ancream"><h3 class="h2">What you should do next <span class="ancnt">{len(NEXT)} actions</span></h3><ol class="anl">{li(NEXT, " go")}</ol><p class="quiet anfoot">From this video’s transcript and metrics.</p></section>
    <section class="ansec"><h3 class="h2">Transcript <span class="quiet">{AX['dur']}</span></h3><p class="quiet">No transcript was captured for this video.</p></section>
    <div class="ancta"><b>Share with your team and creators</b><span class="quiet">Does not use any of your credits.</span><button class="btn y sm" type="button" data-act="toast" data-msg="Opens the share view in this panel (live flow, unchanged).">{ico(I['share'],15)} Share</button></div>
   </div>
@@ -280,6 +288,9 @@ CSS2 = '''
 .anl li>span:last-child{display:flex;flex-direction:column;gap:2px}.anl li>span:last-child>span{color:#5E5A52}
 .an-n{font-size:12px;font-weight:800;color:#6B4B00;background:#FFF6D6;border-radius:6px;padding:2px 6px;height:fit-content;font-variant-numeric:tabular-nums}
 .anl.sm li{font-size:13.5px}
+.ancnt{font-family:inherit;font-size:11px;font-weight:800;letter-spacing:.08em;text-transform:uppercase;color:#8A857A;margin-left:6px}
+.hookt{flex:1;display:flex;flex-direction:column;gap:8px}.hooktags{display:flex;flex-wrap:wrap;gap:6px}.hooktags span{font-size:12px;font-weight:700;color:#5E5A52;background:#fff;border:1px solid #ECE9E1;border-radius:6px;padding:3px 8px}.hooktags span:first-child{color:#8A6100;background:#FFF6D6;border-color:#F2DE99}
+.hookcopy{align-self:stretch;justify-content:center}.rwl{display:block;font-size:11px;font-weight:800;letter-spacing:.08em;text-transform:uppercase;color:#8A857A;margin-bottom:2px}
 .an-n.bad{color:#B42318;background:#FDECEA}.an-n.go{color:#0F7B4B;background:#E6F6EE}
 .ancream{background:#FFFBEB;border:1px solid #F2DE99;border-radius:12px;padding:16px}.ansec.ancream+.ansec,.ansec+.ansec.ancream{border-top:1px solid #F2DE99}.anfoot{font-style:italic;font-size:12.5px}
 .c2st{font-size:12px;gap:12px}

diff --git a/bb-3/src/build-handoff-oct21.py b/bb-3/src/build-handoff-oct21.py
@@ -95,7 +95,7 @@ item(26, "Video card", "Breakout Score first, then views and followers, then eng
   "Grid: 4 across on desktop. 12 = 3 rows; More adds one row of 4 (item 20).",
   "Phone: horizontal card, 112px thumbnail on the left, caption hidden, buttons under the numbers.",
   "Use this card on results and Saved videos. My Feed keeps its own wide card for now (open question).",
-  "Cards 1 to 8 are the real rhode skin run. Cards 9 to 12, and the engagement, likes, comments and shares on cards 6 to 8, are SAMPLE."],
+  "Cards 1 to 8 are the real rhode skin run, with real likes, comments and shares. Cards 6 to 8: date and caption are SAMPLE. Cards 9 to 12 are SAMPLE cards."],
  ["Followers missing or 0: show only 8.9M views.",
   "A count missing: hide that one icon, keep the others.",
   "Views 0 or missing: hide the engagement line.",
@@ -108,13 +108,13 @@ item(28, "Video analysis page", "One page: the analysis as it is today, with Hoo
  ["Ivan, Slack 21 Oct: keep the analysis as it is today, add Hook into the same list, max 3 points per list.",
   "One scroll in the existing analysis panel, no tabs. Video column on the left (sticky on desktop). Order: hook line, <b>Why it worked</b>, <b>Hook</b> (hook line + Copy hook, Why it stops the scroll, The first three seconds, Swipe this hook), <b>What could be improved</b>, <b>What you should do next</b> (cream box, with the From this video's transcript and metrics line), <b>Transcript</b>, then the share CTA.",
   "3 points max in every list: show the first 3 the analysis returns (it already ranks them). The rest are not shown. Lists with fewer show what exists.",
-  "Labels stay as today: Why it worked, What could be improved, What you should do next, Transcript. The driver/drag/action counts next to the headings go (they would always say 3).",
+  "Labels and counts stay as today: Why it worked (n drivers), What could be improved (n drags), What you should do next (n actions), Transcript, and in Hook: Why it stops the scroll (n reasons), How the first three seconds are built, Swipe this hook (n rewrites). n = points shown, so 3 at most.",
   "Removed vs today: the Why it worked / Hook tabs (Hook now sits in the list), the Breakout Score banner (now the info icon, item 16), the TikTok link (item 30, done).",
   "Header: Analysis ready, Save video (item 31), Share, Close.",
   "Video column uses the new card order (item 26): score, views from followers, engagement, handle, then likes / comments / shares.",
   "The shared page (/b/...) shows the same one-page content.",
   "Phone: panel goes full screen, video 240px tall, the text runs under it.",
-  "Data: Ivan's shared @getrealwithalix analysis (real), word for word from the live page, first 3 of each list."],
+  "Data: Ivan's shared @getrealwithalix analysis (real), word for word from the live page (both tabs), first 3 of each list. Hook keeps the live pattern tags, Copy hook for a brief, the rewrite labels and the Structure lifted from this video's opening line."],
  ["Hook with no spoken line (music only): show the on-screen text as the hook; if none, hide Copy hook.",
   "No transcript: show No transcript was captured for this video (as live).",
   "Fewer than 3 points in a list: show what exists, no empty rows. A list with none: hide that section.",
